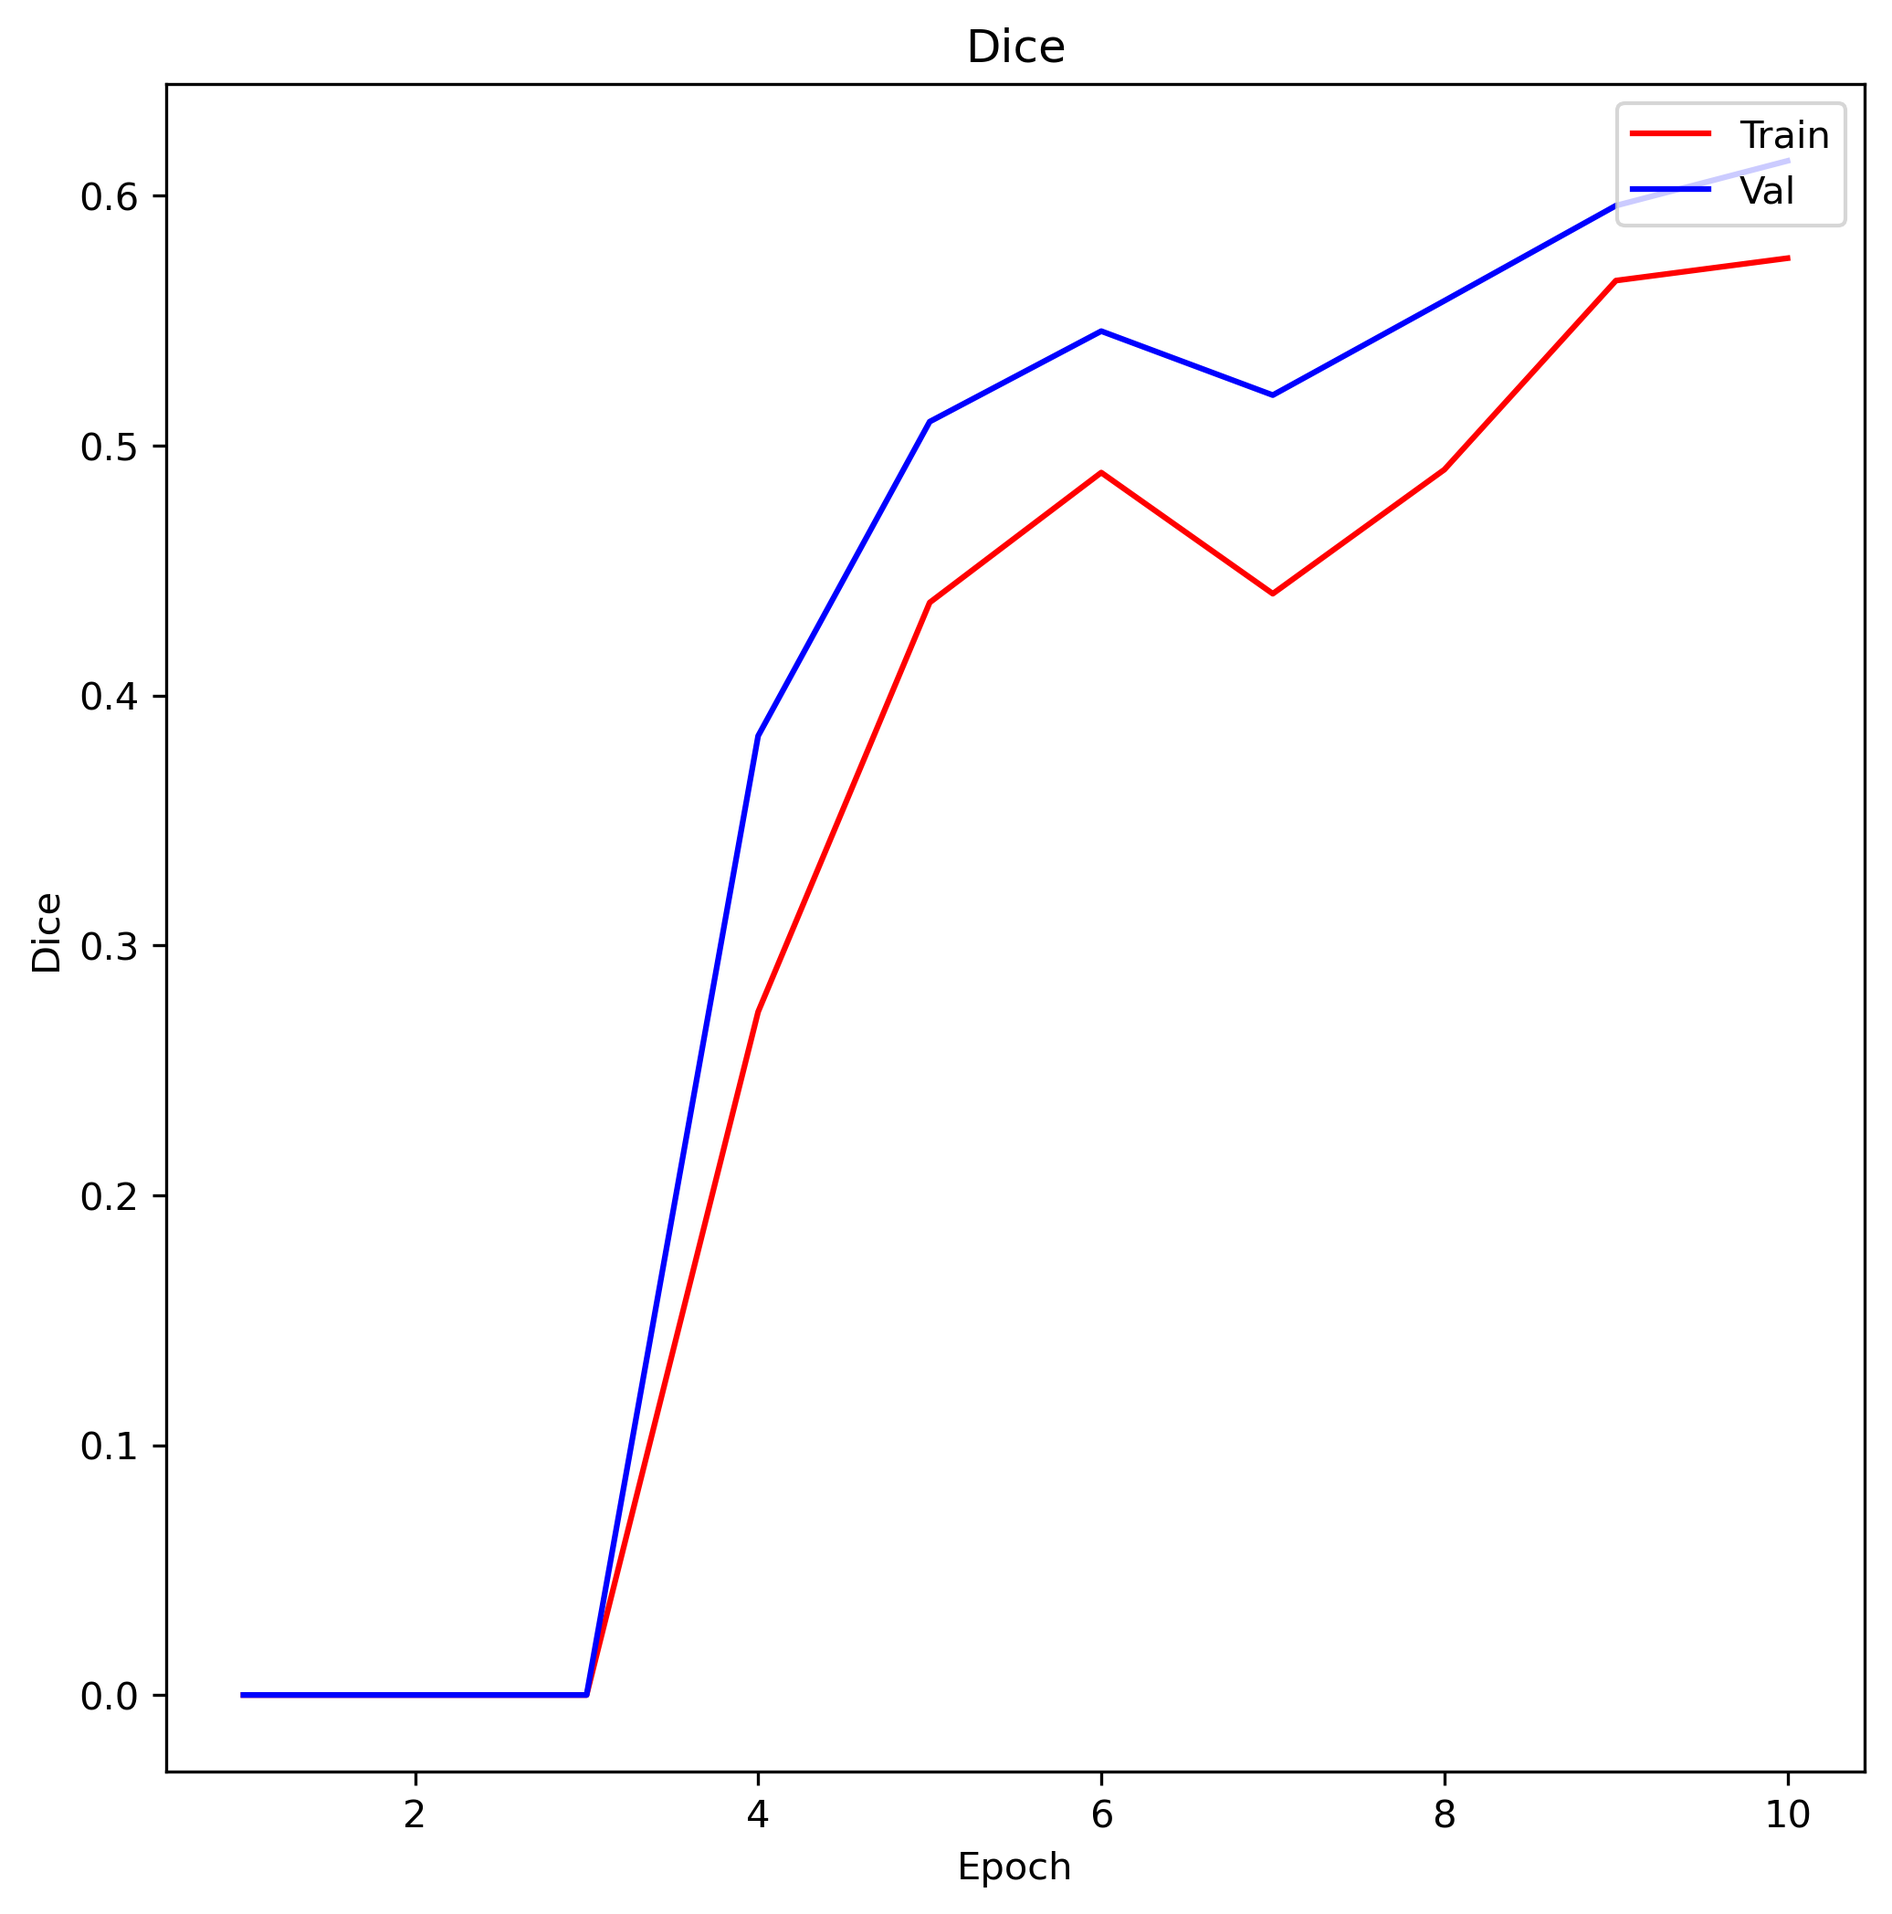
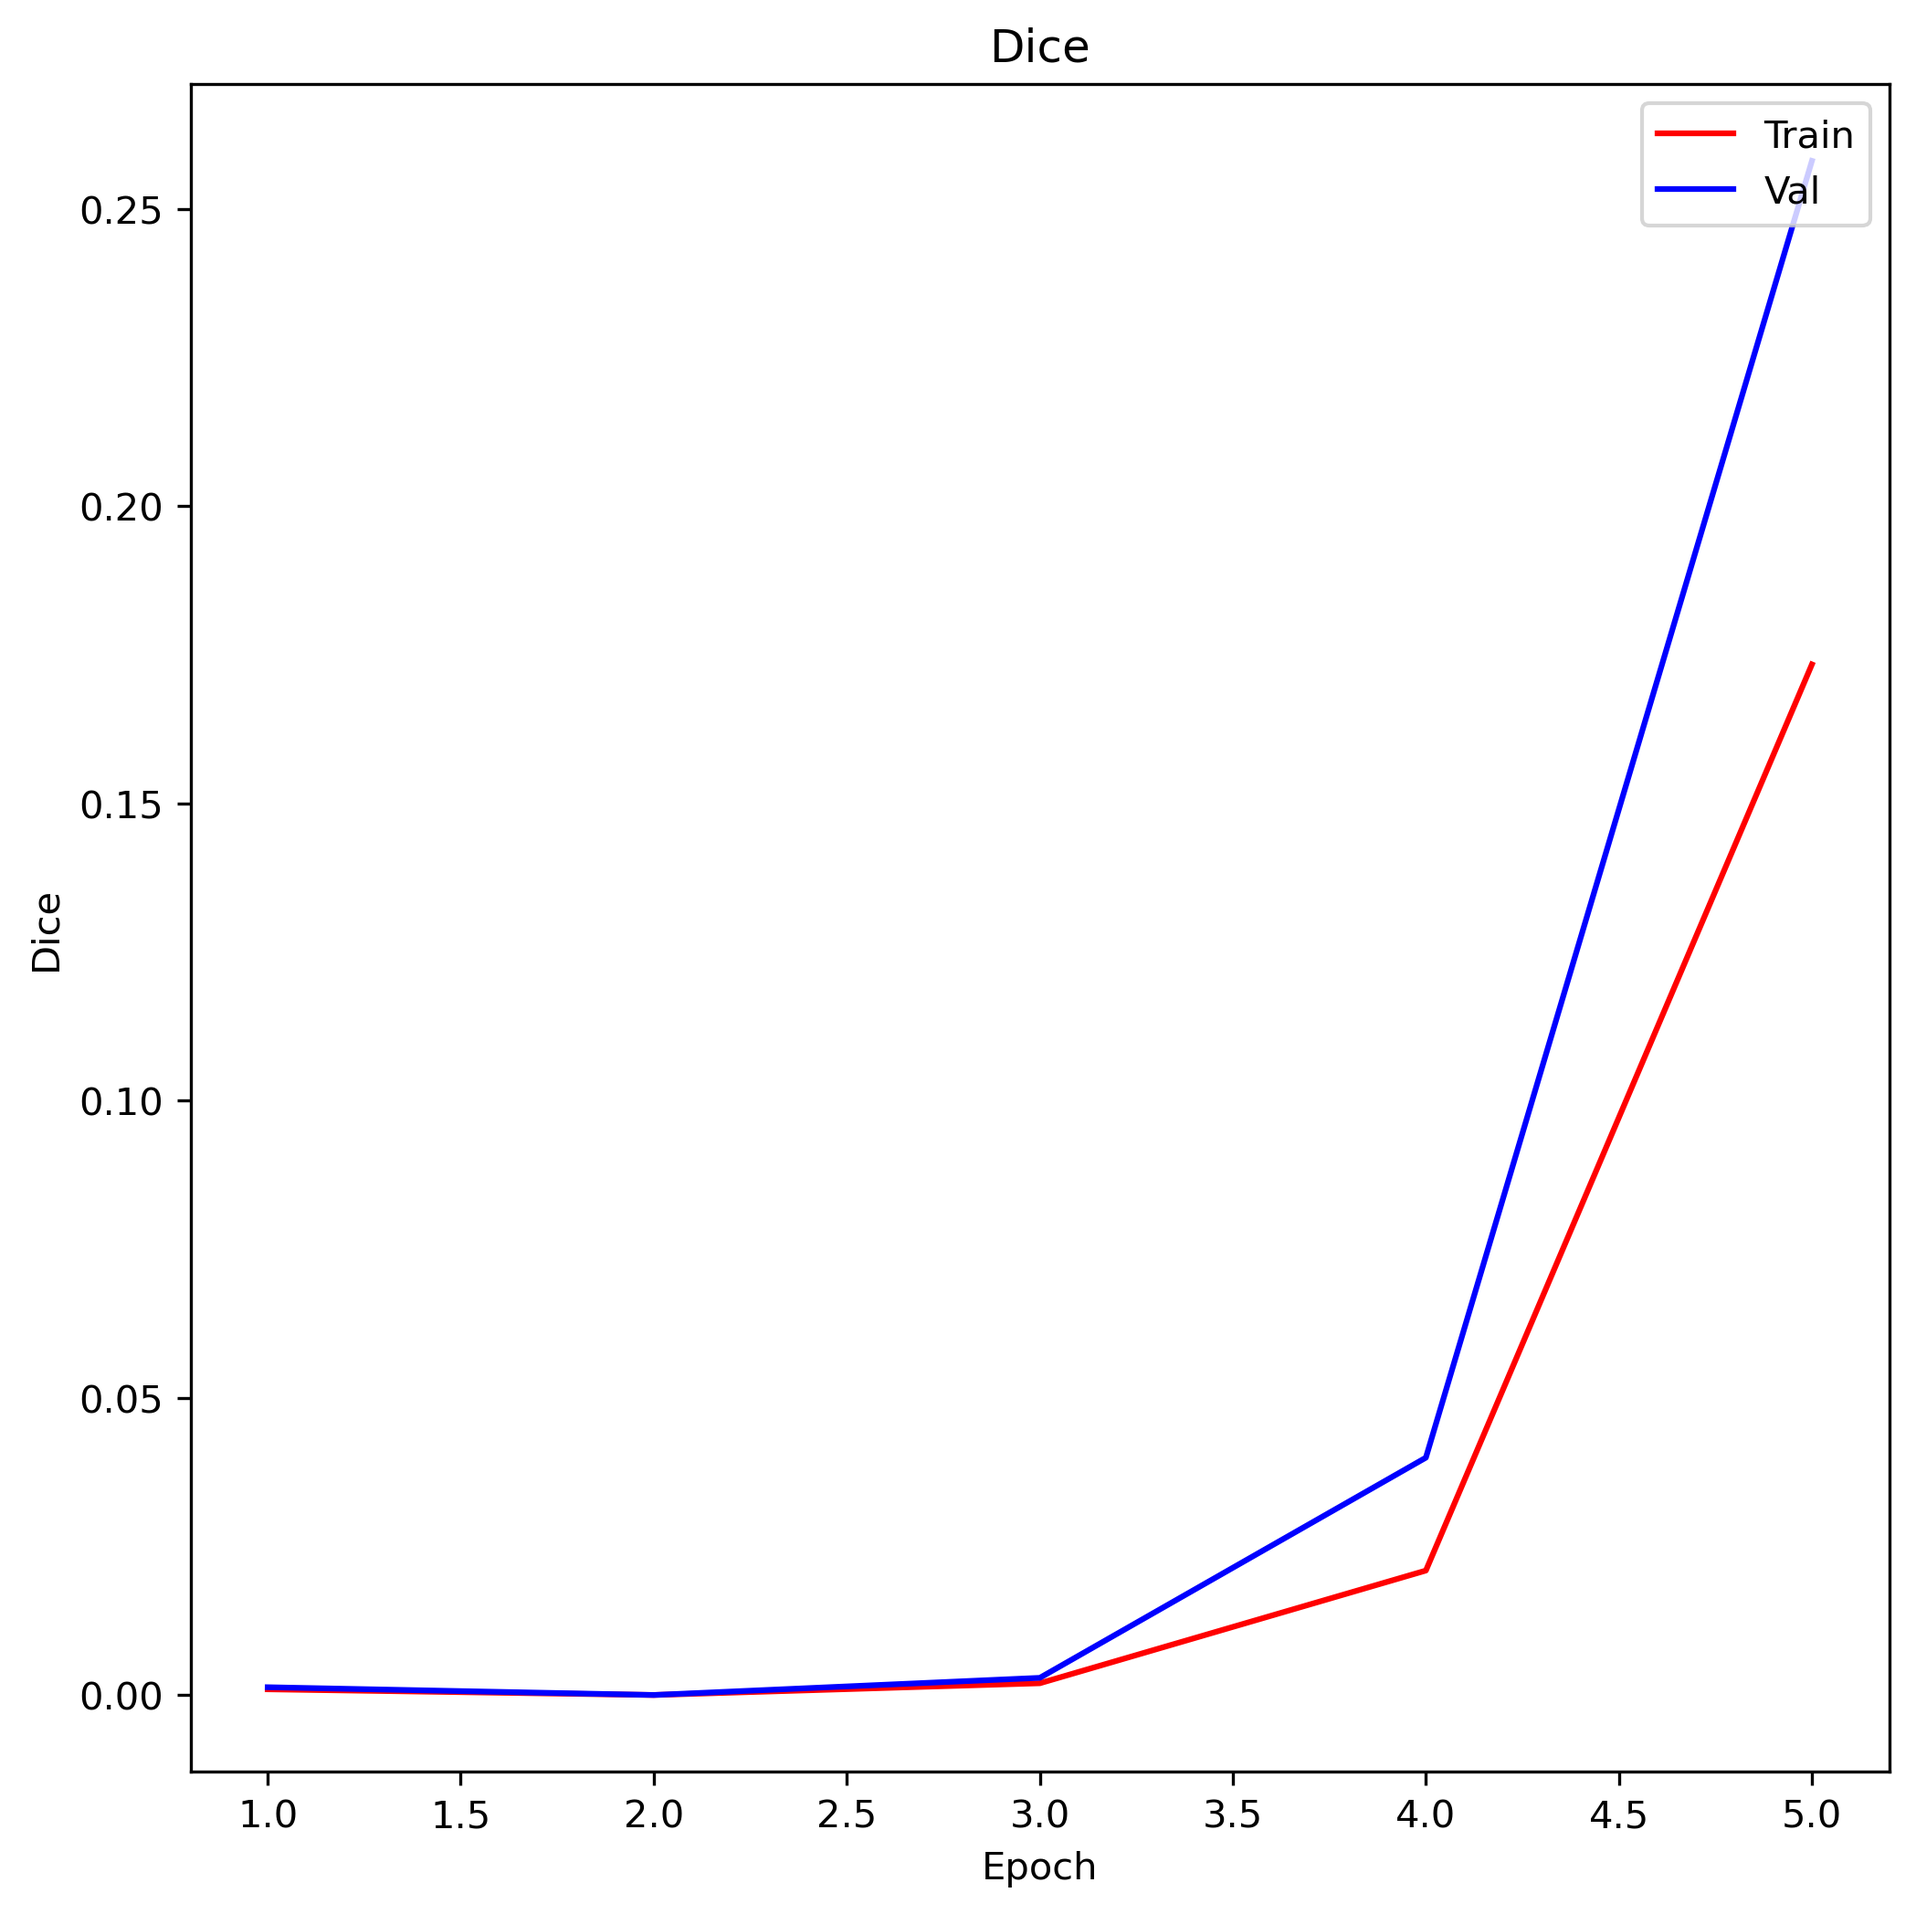
fixed prev epochs csv bug

diff --git a/train.py b/train.py
@@ -170,30 +170,30 @@ if __name__ == "__main__":
     parser = argparse.ArgumentParser()
     parser.add_argument("--model_name", default="VesselNet", type=str, help="Name of the saved model")
     parser.add_argument("--dataset_name", default="CHASE", type=str, help="Name of the data set used")
-    parser.add_argument("--lr", default=1e-4, type=float, help="Learning Rate for training")
-    parser.add_argument("--batch_size", default=32, type=int, help="Batch Size for training")
+    parser.add_argument("--lr", default=1e-3, type=float, help="Learning Rate for training")
+    parser.add_argument("--batch_size", default=4, type=int, help="Batch Size for training")
     parser.add_argument("--device", default="cuda", help="cuda or cpu")
-    parser.add_argument("--epochs", default=10, type=int, help="Number of Epochs")
+    parser.add_argument("--epochs", default=5, type=int, help="Number of Epochs")
     parser.add_argument("--num_workers", default=2, help="Number of workers")
     parser.add_argument("--height", default=256, type=int, help="Input Image Height")
-    parser.add_argument("--width", default=512, type=int, help="Input Image width")
+    parser.add_argument("--width", default=56, type=int, help="Input Image width")
     parser.add_argument("--pin_memory", default=True, help="Pin Memory")
     parser.add_argument("--load_model",type=bool, default=False, help="Load Pretrained Model")
-    parser.add_argument("--train_dir", default="Datasets/CHASE/train/images", type=str,
+    parser.add_argument("--train_dir", default="Datasets/CHASE/CHASE_500/train/images", type=str,
                         help="Training images directory")
-    parser.add_argument("--train_mask", default="Datasets/CHASE/train/labels", type=str,
+    parser.add_argument("--train_mask", default="Datasets/CHASE/CHASE_500/train/labels", type=str,
                         help="Training mask directory")
-    parser.add_argument("--val_dir", default="Datasets/CHASE/validate/images",
+    parser.add_argument("--val_dir", default="Datasets/CHASE/CHASE_500/validate/images",
                         help="Validation Image directory")
-    parser.add_argument("--val_mask", type=str, default="Datasets/CHASE/validate/labels",
+    parser.add_argument("--val_mask", type=str, default="Datasets/CHASE/CHASE_500/validate/labels",
                         help="Validation label directory")
-    parser.add_argument("--test_dir", default="Datasets/CHASE/test/images", type=str,
+    parser.add_argument("--test_dir", default="Datasets/CHASE/CHASE_500/test/images", type=str,
                         help="Test image directory")
-    parser.add_argument("--test_mask", default="Datasets/CHASE/test/labels",
+    parser.add_argument("--test_mask", default="Datasets/CHASE/CHASE_500/test/labels",
                         help="Test mask directory")
     parser.add_argument("--load_weights", default="trained.pth.tar", type=str, help="Add training weight path.")
-    parser.add_argument("--metrics_csv_dir",default="./prev_metrics_3epochs.csv",type=str,help="File path to the metrics csv file.")
-    parser.add_argument("--prev_metrics_csv_dir", default="./prev_metrics_3epochs.csv", type=str,
+    parser.add_argument("--metrics_csv_dir",default="./new_metrics.csv",type=str,help="File path to the metrics csv file.")
+    parser.add_argument("--prev_metrics_csv_dir", default="./prev_metrics.csv", type=str,
                         help="File path to the metrics csv file of the prev loaded model.")
     args = parser.parse_args()
 

diff --git a/results/metrics.py b/results/metrics.py
@@ -80,8 +80,9 @@ def check_metrics(train_loader, val_loader, model, writer, epoch_no,
     val_total_specificity = 0
     val_total_mcc = 0
 
-    if (not os.path.isfile(metrics_dir)):
-        make_csv_copy(metrics_dir, prev_metrics_csv_dir)
+    if load_model == True:
+        if (not os.path.isfile(metrics_dir)):
+            make_csv_copy(metrics_dir, prev_metrics_csv_dir)
 
     # start of model evaluation
     model.eval()
